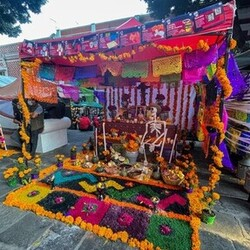
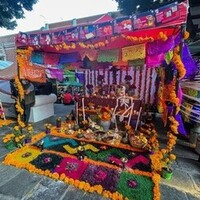
Changed the size of the images on the Travels page

diff --git a/travels.html b/travels.html
@@ -36,7 +36,7 @@
         <div class="row mb-5">
           <div class="col d-none d-lg-flex justify-content-center">
             <img
-              src="images/dia-de-muertos-mexico-square.jpg"
+              src="images/dia-de-muertos-mexico-1.jpg"
               alt="Altar from Dia de Muertos, Mexico"
               class="img-fluid rounded"
             />
@@ -59,7 +59,7 @@
         <div class="row mb-5">
           <div class="col d-none d-lg-flex justify-content-center">
             <img
-              src="images/palma-de-mallorca-square.jpg"
+              src="images/palma-de-mallorca-1.jpg"
               alt="Building in Palma, Mallorca"
               class="img-fluid rounded"
             />
@@ -81,7 +81,7 @@
         <div class="row mb-5">
           <div class="col d-none d-lg-flex justify-content-center">
             <img
-              src="images/puebla-mexico-square.jpg"
+              src="images/puebla-mexico-1.jpg"
               alt="Colorful buildings in Puebla, Mexico"
               class="img-fluid rounded"
             />

diff --git a/styles/application.css b/styles/application.css
@@ -168,4 +168,7 @@ footer {
   .oriana-picture {
     margin: 5px;
   }
+  .content-container h1 {
+    font-size: 45px;
+  }
 }
